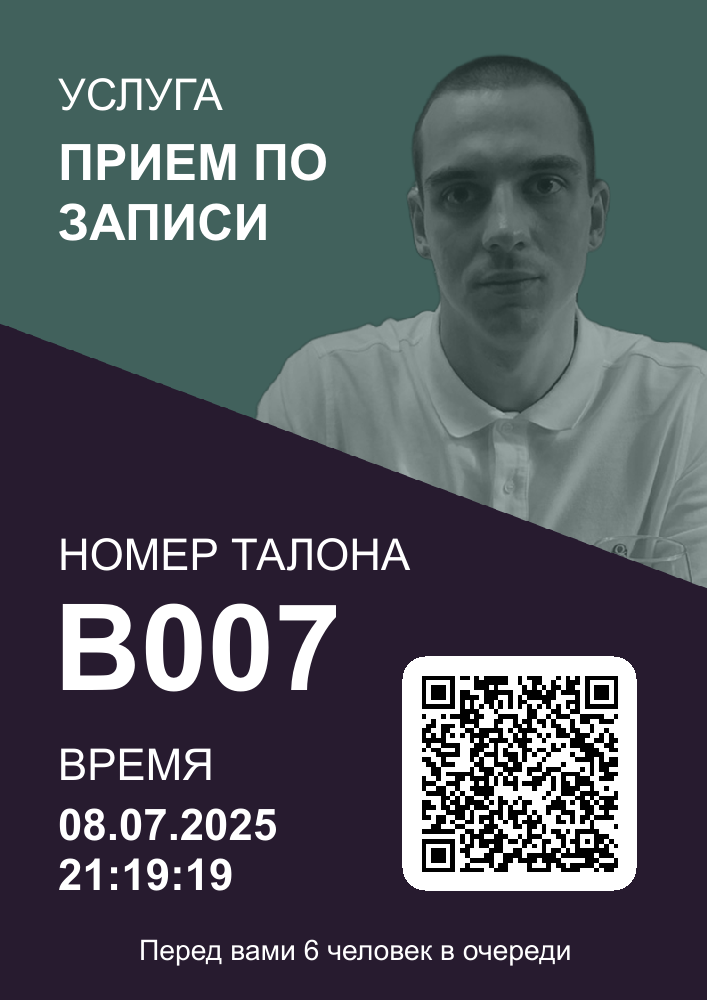
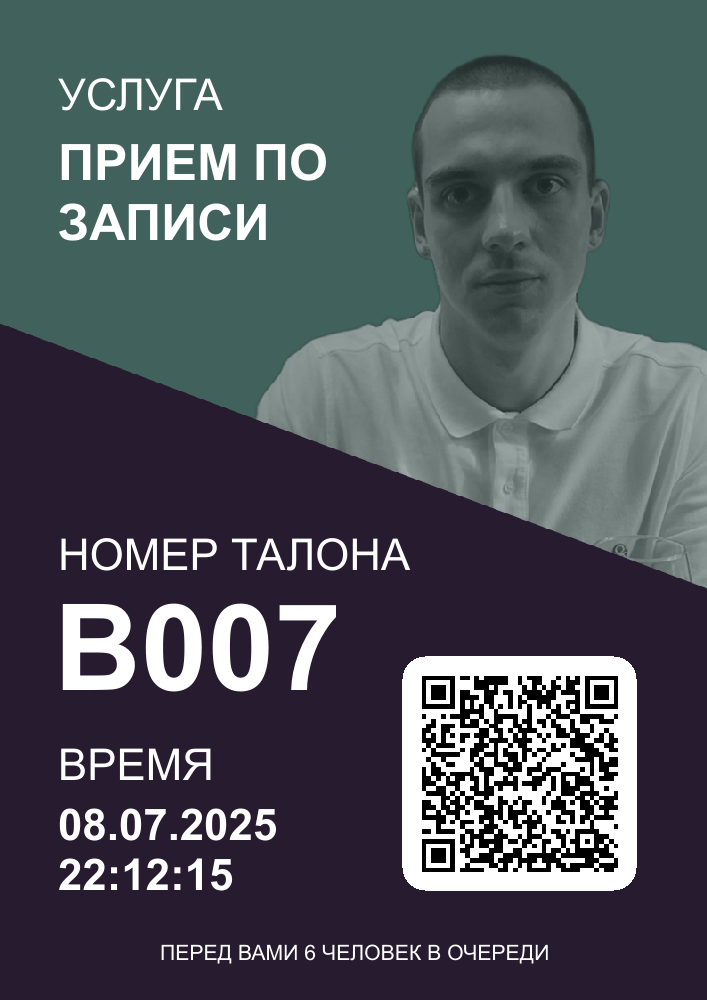
feat: qr-код теперь записывается в БД

diff --git a/internal/utils/ticket_to_png.go b/internal/utils/ticket_to_png.go
@@ -247,7 +247,7 @@ func GenerateTicketImage(config TicketConfig, isColor bool) ([]byte, error) {
 	serviceSize := float64(config.Width) * 0.071 // Размер названия услуги
 	numberSize := float64(config.Width) * 0.17   // Размер номера талона
 	timeSize := float64(config.Width) * 0.062    // Размер времени
-	WaitingSize := float64(config.Width) * 0.04  // Размер очереди
+	WaitingSize := float64(config.Width) * 0.03  // Размер очереди
 
 	// Рисуем заголовок "УСЛУГА" (обычный шрифт)
 	c.SetFont(ttfFont)
@@ -347,7 +347,7 @@ func GenerateTicketImage(config TicketConfig, isColor bool) ([]byte, error) {
 	if config.WaitingNumber > 0 {
 		c.SetFont(ttfFont)
 		c.SetFontSize(WaitingSize)
-		queueText := fmt.Sprintf("Перед вами %d человек в очереди", config.WaitingNumber)
+		queueText := strings.ToUpper(fmt.Sprintf("Перед вами %d человек в очереди", config.WaitingNumber))
 
 		// Точный расчет центрирования
 		face := truetype.NewFace(ttfFont, &truetype.Options{
